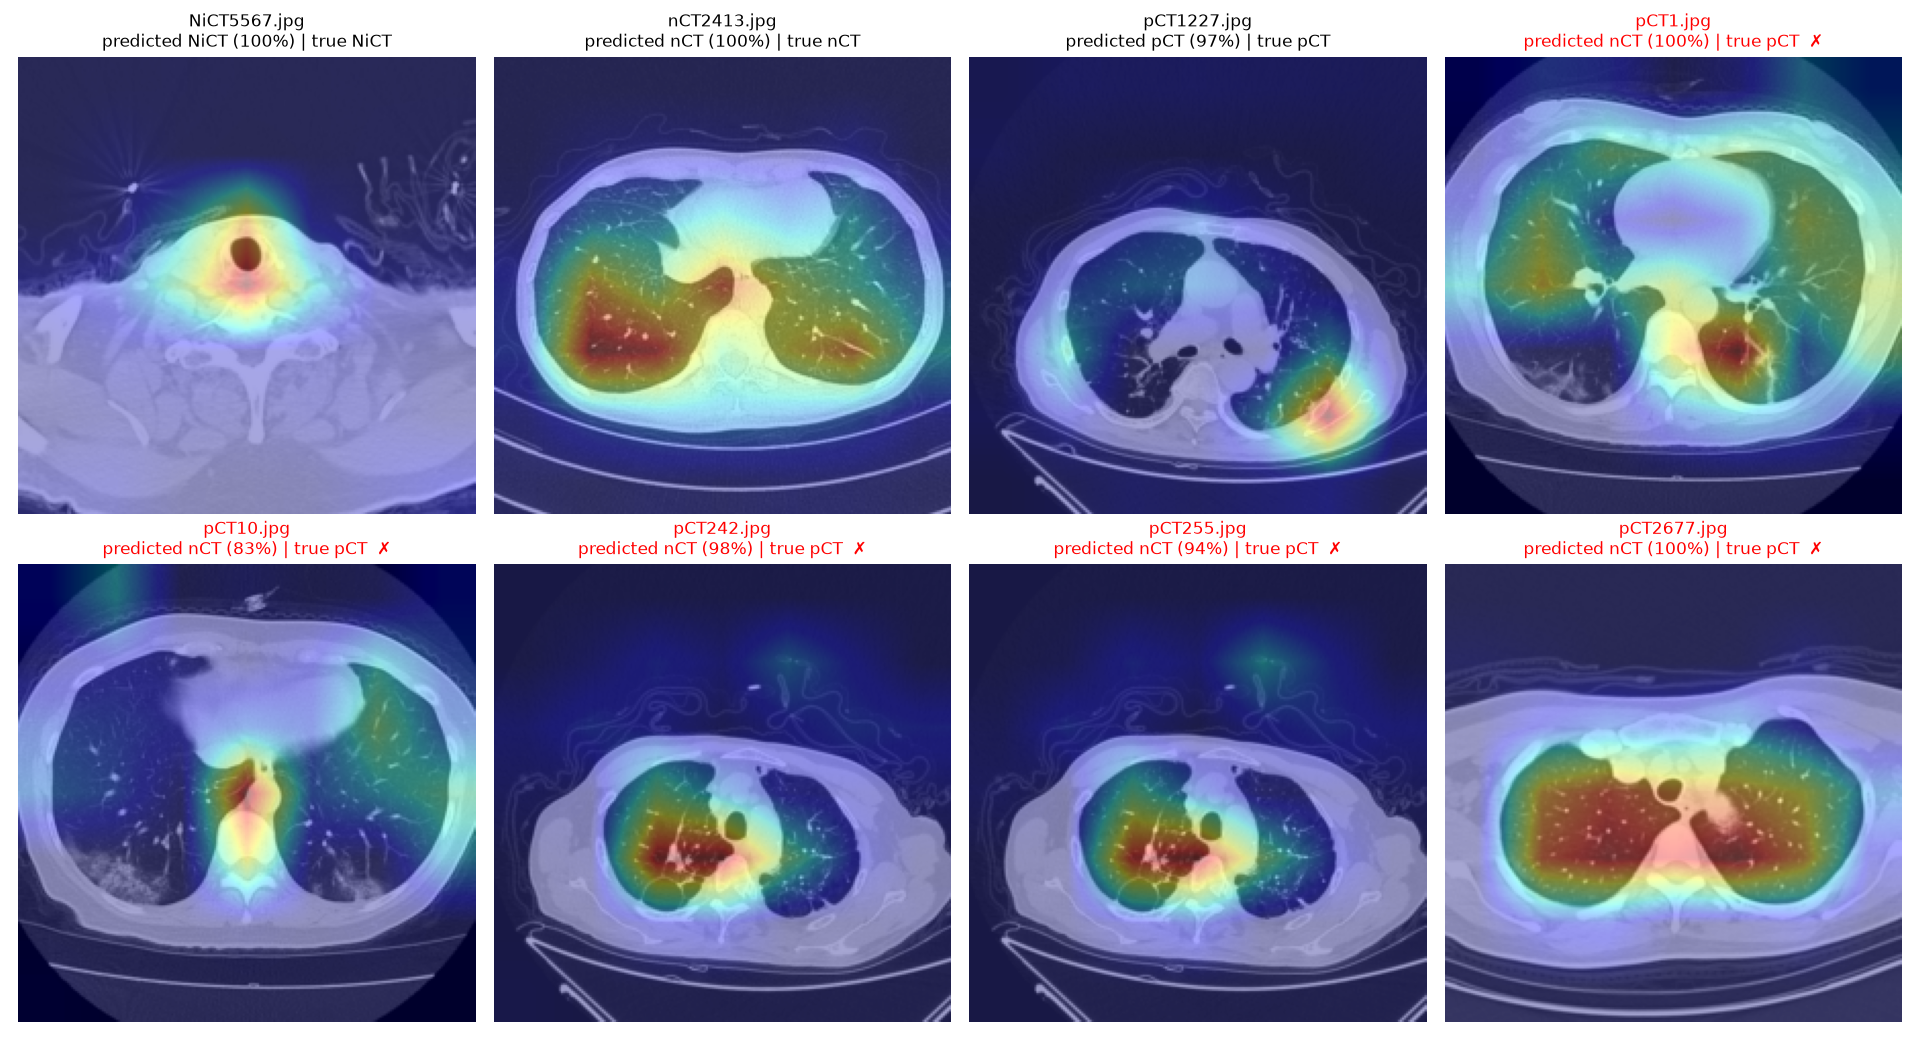
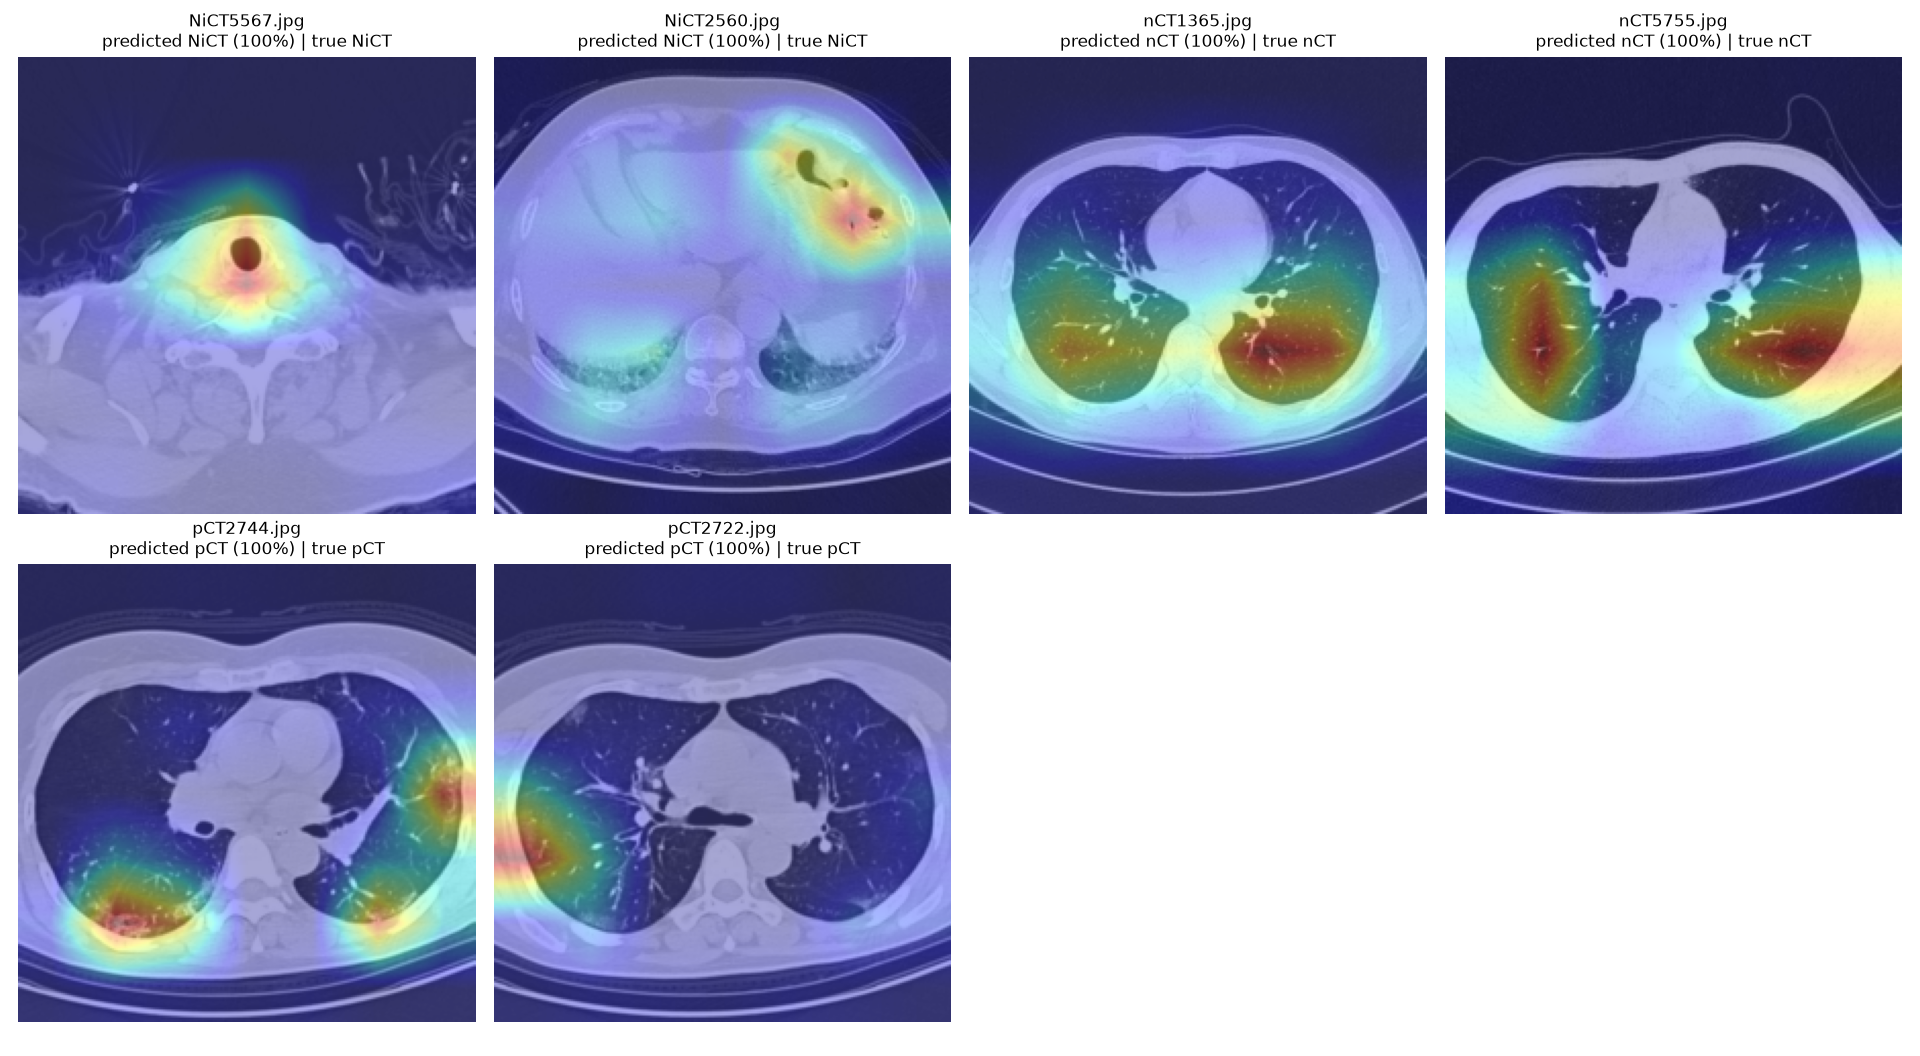
Add web demo, scan-level evaluation and Grad-CAM

diff --git a/deploy_space.py b/deploy_space.py
@@ -1,0 +1,109 @@
+"""Publish the web demo (app.py) on Hugging Face Spaces.
+
+Usage:
+    hf auth login                 # once: connects this computer to your Hugging Face account
+    python deploy_space.py        # creates or updates https://huggingface.co/spaces/<your-name>/covid-ct-classifier
+    python deploy_space.py --dry-run space_preview   # only builds the Space folder locally, to inspect it
+"""
+import argparse
+import shutil
+import tempfile
+from importlib.metadata import version
+from pathlib import Path
+
+from covid_ct import config
+
+SPACE_NAME = "covid-ct-classifier"
+CODE_FILES = [
+    "app.py",
+    "covid_ct/__init__.py", "covid_ct/config.py", "covid_ct/splits.py",
+    "covid_ct/data.py", "covid_ct/model.py", "covid_ct/gradcam.py",
+]
+
+# Gradio itself is installed by Hugging Face (sdk_version below); the CPU build of PyTorch is much smaller
+REQUIREMENTS = """--extra-index-url https://download.pytorch.org/whl/cpu
+torch
+torchvision
+numpy
+matplotlib
+pillow
+"""
+
+CARD = """---
+title: COVID-19 CT Scan Classifier
+emoji: 🫁
+colorFrom: blue
+colorTo: indigo
+sdk: gradio
+sdk_version: {gradio_version}
+app_file: app.py
+pinned: false
+short_description: Classifies chest CT slices with Grad-CAM heatmaps
+---
+
+# COVID-19 CT Scan Classifier
+
+Upload an axial chest CT slice to classify it as normal, COVID-19 positive or non-informative.
+A Grad-CAM heatmap shows which regions of the image drove the prediction.
+
+The model is a MobileNetV3-Large fine-tuned on 19,685 CT slices. It reaches 96.9% accuracy on
+29 CT scans held out from training. Code, training and evaluation: {github}
+
+The example images come from the [CT Scans for COVID-19 Classification](https://www.kaggle.com/datasets/azaemon/preprocessed-ct-scans-for-covid19)
+dataset (CC BY 4.0), built from the iCTCF data of Ning et al. (2020).
+
+This is a learning project, not a medical device. Do not use it to make decisions about anyone's health.
+"""
+
+
+def build(folder, weights):
+    """Copy everything the Space needs into a folder."""
+    folder = Path(folder)
+    for name in CODE_FILES:
+        (folder / name).parent.mkdir(parents=True, exist_ok=True)
+        shutil.copy(config.ROOT / name, folder / name)
+
+    target = folder / config.model_path("group").relative_to(config.ROOT)
+    target.parent.mkdir(parents=True, exist_ok=True)
+    shutil.copy(weights, target)
+
+    (folder / "examples").mkdir(exist_ok=True)
+    for image in sorted((config.ROOT / "examples").glob("*.jpg")):
+        shutil.copy(image, folder / "examples" / image.name)
+
+    (folder / "requirements.txt").write_text(REQUIREMENTS)
+    (folder / "README.md").write_text(CARD.format(gradio_version=version("gradio"), github=config.GITHUB_URL))
+
+
+def main():
+    parser = argparse.ArgumentParser(description="Publish the demo on Hugging Face Spaces.")
+    parser.add_argument("--repo", default=None, help="Space id, e.g. your-name/covid-ct-classifier")
+    parser.add_argument("--weights", default=str(config.model_path("group")), help="trained model to publish")
+    parser.add_argument("--dry-run", metavar="FOLDER", default=None, help="build the Space folder here, do not upload")
+    args = parser.parse_args()
+
+    if not Path(args.weights).exists():
+        raise SystemExit(f"{config.short(args.weights)} not found: train the model first with `python train.py`")
+
+    if args.dry_run:
+        build(args.dry_run, args.weights)
+        for p in sorted(Path(args.dry_run).rglob("*")):
+            if p.is_file():
+                print(p.relative_to(args.dry_run))
+        return
+
+    from huggingface_hub import HfApi
+
+    api = HfApi()
+    repo_id = args.repo or f"{api.whoami()['name']}/{SPACE_NAME}"
+    with tempfile.TemporaryDirectory() as tmp:
+        build(tmp, args.weights)
+        api.create_repo(repo_id, repo_type="space", space_sdk="gradio", exist_ok=True)
+        api.upload_folder(repo_id=repo_id, folder_path=tmp, repo_type="space",
+                          commit_message="Update the demo")
+    print(f"Done: https://huggingface.co/spaces/{repo_id}")
+    print("The Space takes a few minutes to build the first time.")
+
+
+if __name__ == "__main__":
+    main()

diff --git a/app.py b/app.py
@@ -1,0 +1,84 @@
+"""Web demo: upload a chest CT slice, get the predicted class and a Grad-CAM heatmap.
+
+Run it on your computer:
+    python app.py          then open http://127.0.0.1:7860
+Publish it on Hugging Face Spaces:
+    python deploy_space.py
+"""
+import gradio as gr
+import numpy as np
+import torch
+from matplotlib import colormaps
+from PIL import Image
+
+from covid_ct import config
+from covid_ct.data import eval_transform
+from covid_ct.gradcam import GradCAM, to_display
+from covid_ct.model import load_model
+
+LABELS = {
+    "NiCT": "Non-informative (lungs not visible enough)",
+    "nCT": "Normal",
+    "pCT": "COVID-19 positive",
+}
+
+
+def find_weights():
+    """The model trained on the group split, or the one trained on the slice split."""
+    for mode in config.SPLIT_MODES:
+        path = config.model_path(mode)
+        if path.exists():
+            return path
+    raise FileNotFoundError("No trained model in outputs/: run `python train.py` first")
+
+
+device = torch.device("cpu")            # one image at a time is fast enough on the CPU
+model = load_model(find_weights(), device)
+cam = GradCAM(model)
+
+
+def overlay(x, heatmap, alpha=0.4):
+    """Blend the heatmap (blue = ignored, red = important) over the preprocessed image."""
+    image = to_display(x)                                    # H x W x 3, values between 0 and 1
+    colours = colormaps["jet"](heatmap)[..., :3]
+    blended = (1 - alpha) * image + alpha * colours
+    return Image.fromarray((blended * 255).astype(np.uint8))
+
+
+def classify(image):
+    """Return the probability of each class and the Grad-CAM image."""
+    if image is None:
+        return None, None
+    x = eval_transform(image.convert("RGB")).unsqueeze(0).to(device)
+    heatmap, probs, _ = cam(x)
+    scores = {LABELS[c]: float(p) for c, p in zip(config.CLASSES, probs)}
+    return scores, overlay(x, heatmap)
+
+
+examples = sorted(str(p) for p in (config.ROOT / "examples").glob("*.jpg"))
+
+with gr.Blocks(title="COVID-19 CT Scan Classifier") as demo:
+    gr.Markdown(
+        "# COVID-19 CT Scan Classifier\n"
+        "Upload an axial chest CT slice. A MobileNetV3-Large fine-tuned on 19,685 CT slices classifies it as "
+        "**normal**, **COVID-19 positive** or **non-informative**, and a Grad-CAM heatmap shows which regions "
+        f"drove the prediction (red = most important). [Code on GitHub]({config.GITHUB_URL})"
+    )
+    with gr.Row():
+        with gr.Column():
+            image_in = gr.Image(type="pil", label="Chest CT slice")
+            button = gr.Button("Classify", variant="primary")
+        with gr.Column():
+            label_out = gr.Label(num_top_classes=3, label="Prediction")
+            heatmap_out = gr.Image(label="Grad-CAM: where the model looks")
+    if examples:
+        gr.Examples(examples=examples, inputs=image_in, outputs=[label_out, heatmap_out],
+                    fn=classify, run_on_click=True, cache_examples=False)
+    button.click(classify, inputs=image_in, outputs=[label_out, heatmap_out])
+    gr.Markdown(
+        "*This is a learning project, not a medical device. "
+        "Do not use it to make decisions about anyone's health.*"
+    )
+
+if __name__ == "__main__":
+    demo.launch()

diff --git a/covid_ct/config.py b/covid_ct/config.py
@@ -6,6 +6,7 @@ ROOT = Path(__file__).resolve().parents[1]
 DATA_ROOT = ROOT / "data"            # contains the NiCT/, nCT/ and pCT/ folders
 OUTPUT_DIR = ROOT / "outputs"        # trained models and training histories
 ASSETS_DIR = ROOT / "assets"         # figures used in the README
+GITHUB_URL = "https://github.com/aymanbelbachir/covid-ct-classifier"
 
 # Class names in the order ImageFolder assigns them (alphabetical, uppercase first)
 CLASSES = ["NiCT", "nCT", "pCT"]

diff --git a/train.py b/train.py
@@ -1,7 +1,7 @@
 """Train MobileNetV3-Large on the CT slices and save the best model.
 
 Usage:
-    python train.py                       # group split (honest), 25 epochs
+    python train.py                       # group split (default), 25 epochs
     python train.py --split-mode slice    # original notebook split
     python train.py --epochs 5            # shorter run
 """

diff --git a/README.md b/README.md
@@ -1,8 +1,13 @@
 # COVID-19 CT Scan Classifier
 
-A PyTorch image classifier that sorts chest CT slices into three classes: normal, COVID-19 positive and non-informative. It uses transfer learning on MobileNetV3-Large. Evaluated on scans it has never seen, it reaches **96.9% accuracy** and detects **90% of COVID-positive slices**.
+A deep learning project that classifies chest CT slices into three classes: normal, COVID-19 positive and non-informative. It fine-tunes a pretrained MobileNetV3-Large in PyTorch and reaches **96.9% accuracy on 29 CT scans held out from training**, with a **99.5% specificity** for COVID-19 and all 8 COVID-positive test scans detected.
 
-The project also shows that the usual way of splitting this dataset, slice by slice, leaks near-identical images from the training set into the test set and inflates the accuracy to 99.6%, and how to fix it.
+- **Transfer learning:** MobileNetV3-Large pretrained on ImageNet, fine-tuned on 19,685 CT slices
+- **Scan-level data split:** near-identical slices of the same scan are kept together, so the test set measures performance on unseen scans
+- **Complete evaluation:** precision, recall, F1, sensitivity, specificity, confidence intervals and scan-level results
+- **Explainability:** Grad-CAM heatmaps show which regions of the image drive each prediction
+- **Command-line tools:** training, evaluation, prediction and Grad-CAM scripts, plus a step-by-step notebook
+- **Apple Silicon:** trains on the Mac GPU through PyTorch's MPS backend
 
 > This is a learning project. It is not a medical device and must not be used to make decisions about anyone's health.
 
@@ -18,30 +23,23 @@ Each image is a single slice from a chest CT scan. The model assigns it to one o
 
 ## Results
 
-### An honest split: whole scans, not slices
+Test set: 2,567 slices from 29 scans that the model never saw during training.
 
-The dataset has no patient IDs, and neighbouring slices of a scan are nearly identical. A random split slice by slice therefore puts near-copies of training slices in the test set. `find_groups.py` links every pair of slices whose pixel correlation is above 0.95 and turns each chain of linked slices into a group. This gives 189 groups, a proxy for scans, with a median of 81 slices each. Whole groups are then assigned to the training (137 groups), validation (23) or test set (29).
+| Metric | Value |
+|---|---:|
+| Accuracy | 96.88% |
+| Macro F1 | 0.965 |
+| COVID-19 sensitivity | 89.96% |
+| COVID-19 specificity | 99.50% |
+| COVID-positive scans detected | 8 of 8 |
 
-| | Per-slice split | Per-scan split |
-|---|---:|---:|
-| Test slices with a near-copy in the training set | 97.1% | 0.0% |
-| Nearest-neighbour baseline (no learning) | 99.66% | 84.07% |
-| **Model test accuracy** | 99.59% | **96.88%** |
-| **COVID-19 sensitivity** | 99.00% | **89.96%** |
-| **COVID-19 specificity** | 99.96% | **99.50%** |
-| Errors on the test set | 12 of 2,956 | 80 of 2,567 |
+| Class | Precision | Recall | F1 |
+|---|---:|---:|---:|
+| NiCT | 96.97% | 99.61% | 0.983 |
+| nCT | 96.38% | 98.24% | 0.973 |
+| pCT | 98.01% | 89.96% | 0.938 |
 
-The nearest-neighbour baseline copies the label of the most similar training slice. With the per-slice split it already scores 99.66%, so the model's 99.59% said very little. With the per-scan split the model beats that baseline by 13 points, so it did learn to read the images, but it misses 10% of COVID-positive slices instead of 1%. `check_leakage.py` reproduces the first two rows.
-
-### Detailed results (per-scan split)
-
-| Class | Precision | Recall | F1 | Recall 95% CI |
-|---|---:|---:|---:|---:|
-| NiCT | 96.97% | 99.61% | 0.983 | 98.9–99.9% |
-| nCT | 96.38% | 98.24% | 0.973 | 97.3–98.8% |
-| pCT | 98.01% | 89.96% | 0.938 | 87.2–92.2% |
-
-Confusion matrix on the test set (rows = true class, columns = predicted class):
+Confusion matrix (rows = true class, columns = predicted class):
 
 | | NiCT | nCT | pCT |
 |---|---:|---:|---:|
@@ -49,39 +47,46 @@ Confusion matrix on the test set (rows = true class, columns = predicted class):
 | **nCT** | 13 | 1,225 | 9 |
 | **pCT** | 11 | 44 | 493 |
 
-The most frequent error is also the most serious one: 44 COVID-positive slices predicted as normal. The errors are concentrated in a few scans: the 80 errors come from 10 of the 29 test scans, and three scans account for 53 of them. At the scan level, all 8 test scans that contain COVID-positive slices have at least one slice flagged as positive, and 3 of the 21 other scans have at least one false alarm. With only 8 positive scans in the test set, the per-slice confidence intervals understate the real uncertainty.
+![Training curves](assets/training_curves_group.png)
 
-![Training curves on the per-scan split](assets/training_curves_group.png)
-
-Validation accuracy levels off around 96% after two epochs while the validation loss rises: the model starts to memorise the training scans. The per-slice split hid this completely, because its validation set was made of near-copies of training slices. The model with the best validation accuracy (epoch 10) is kept.
+Validation accuracy reaches about 96% within the first epochs. The model from the epoch with the best validation accuracy is kept.
 
 ### Where the model looks
 
-[Grad-CAM](https://arxiv.org/abs/1610.02391) highlights the regions of an image that drove the prediction (red = most important).
+[Grad-CAM](https://arxiv.org/abs/1610.02391) highlights the regions of the image that drove the prediction (red = most important). On COVID-positive slices the model focuses on the opacities in the lungs, on normal slices it scans both lungs, and on non-informative slices it relies on the anatomy around them, such as the neck or the abdomen.
 
 ![Grad-CAM heatmaps on test slices](assets/gradcam.png)
 
-The first three slices are classified correctly. On the COVID-positive slice the model focuses on the lesion at the back of the left lung, and on the non-informative slice on the neck. The other five are COVID-positive slices predicted as normal. On `pCT1` and `pCT10` the opacities at the back of the lungs are clearly visible, but the model's attention is elsewhere. Both slices come from a scan with a circular field of view, which suggests the model is sensitive to how the images were acquired.
-
 ## How it works
 
-- **Data:** the slices are grouped into pseudo-scans (see above) and whole groups are split into about 70% training, 15% validation and 15% test, stratified by class. Training images are augmented with random resized crops and horizontal flips. All images are normalized with the ImageNet statistics.
-- **Model:** MobileNetV3-Large pretrained on ImageNet. Its original 1,000-class head is replaced by a new one: 960 → 1,280 (ReLU, 20% dropout) → 3. The whole network is fine-tuned (4.2M trainable parameters).
-- **Training:** cross-entropy loss, AdamW (learning rate 1e-4, weight decay 1e-4), batch size 16, 25 epochs. The model with the best validation accuracy is kept.
-- **Hardware:** Apple Silicon MacBook, PyTorch MPS backend. Training took about 85 minutes.
+1. **Data split.** Neighbouring slices of a CT scan are almost identical, so splitting the dataset slice by slice would put near-copies of training slices in the test set. `find_groups.py` links slices whose pixel correlation is above 0.95 and turns each chain of linked slices into a group, a proxy for one scan. The 189 groups are split into training (137), validation (23) and test (29), stratified by class, and `check_leakage.py` confirms that no test slice has a near-copy in the training set.
+2. **Preprocessing.** Images are resized to 224 x 224 and normalized with the ImageNet statistics. Training images are augmented with random resized crops and horizontal flips.
+3. **Model.** MobileNetV3-Large pretrained on ImageNet. Its 1,000-class head is replaced by a new one: 960 → 1,280 (ReLU, 20% dropout) → 3. The whole network is fine-tuned (4.2M trainable parameters).
+4. **Training.** Cross-entropy loss, AdamW (learning rate 1e-4, weight decay 1e-4), batch size 16, 25 epochs, about 85 minutes on an Apple Silicon MacBook.
+5. **Evaluation.** Per-class precision, recall and F1, COVID-19 sensitivity and specificity with 95% confidence intervals, and a summary per scan.
 
 ## Project structure
 
 ```
-covid_ct/           shared code: settings, splits, data, model, training loops, metrics, Grad-CAM
-find_groups.py      groups near-identical slices and writes the per-scan split
-check_leakage.py    measures how much the test set leaks from the training set
-train.py            trains the model and saves it with its history and curves
-evaluate.py         per-class metrics, sensitivity, specificity and a per-scan summary
-gradcam.py          Grad-CAM heatmaps of test images or of your own images
-predict.py          classifies one or more images
-splits/             the per-scan split (group_split.csv)
-classifier.ipynb    the original pipeline step by step, with the per-slice split
+covid_ct/              shared package
+├── config.py          paths, classes and hyperparameters
+├── splits.py          train / validation / test split
+├── similarity.py      thumbnails and similarity search to group slices
+├── data.py            transforms and data loaders
+├── model.py           MobileNetV3-Large with the new classification head
+├── engine.py          training and evaluation loops
+├── metrics.py         precision, recall, F1, sensitivity, specificity
+└── gradcam.py         Grad-CAM heatmaps
+find_groups.py         groups slices into scans and writes splits/group_split.csv
+check_leakage.py       checks that the test set has no near-copy in the training set
+train.py               trains the model and saves it with its history and curves
+evaluate.py            evaluates the trained model on the test set
+gradcam.py             draws Grad-CAM heatmaps for test images or your own images
+predict.py             classifies one or more images
+app.py                 web demo (Gradio): upload a slice, get the prediction and its heatmap
+deploy_space.py        publishes the web demo on Hugging Face Spaces
+examples/              example slices from the test set, used by the demo
+classifier.ipynb       the whole pipeline step by step, with explanations
 ```
 
 ## Getting started
@@ -106,20 +111,21 @@ data/
 Then run the scripts from the project folder:
 
 ```bash
-python check_leakage.py                   # leakage of the per-slice and per-scan splits
-python train.py                           # train on the per-scan split (about 1.5 hours on Apple Silicon)
-python evaluate.py                        # evaluate the model on the test scans
-python gradcam.py --examples 1 --errors   # heatmaps, saved to assets/gradcam.png
+python train.py                           # train the model (about 1.5 hours on Apple Silicon)
+python evaluate.py                        # evaluate it on the test scans
+python gradcam.py --examples 2            # Grad-CAM heatmaps, saved to assets/gradcam.png
 python predict.py data/pCT/pCT1227.jpg    # classify one or more images
+python app.py                             # web demo at http://127.0.0.1:7860
 ```
 
-Add `--split-mode slice` to `train.py` or `evaluate.py` to reproduce the original per-slice results. The per-scan split is included in `splits/group_split.csv`; run `find_groups.py` only to change the grouping threshold.
+The split is included in `splits/group_split.csv`, so `find_groups.py` only needs to be run to change the grouping threshold.
 
 ## Limitations
 
-- **Groups are only a proxy for patients.** Without patient IDs, distant slices of the same patient that are not linked could still end up on both sides of the split. The test set contains only 29 scans, 8 of them with COVID-positive slices, so the results are uncertain.
-- **One data source.** All scans come from two hospitals in Wuhan. The model has not been tested on other scanners or populations, and the Grad-CAM errors suggest it is sensitive to how images are acquired.
-- **Overconfident probabilities.** The model often gives 99–100% even when it is wrong; its probabilities are not calibrated.
+- **No patient IDs.** The groups of similar slices are a proxy for patients: distant slices of the same patient could still end up in both the training and the test set. The test set contains 29 scans, 8 of them with COVID-positive slices, which limits the precision of the results.
+- **Missed COVID-positive slices.** About 10% of the COVID-positive slices are classified as normal or non-informative, mostly in a few scans. Scans acquired differently from the majority, for example with a circular field of view, are harder for the model.
+- **One data source.** All scans come from two hospitals in Wuhan. The model has not been tested on other scanners or populations.
+- **Overconfident probabilities.** The model often gives probabilities close to 100%, including on its errors; they are not calibrated.
 - **Single slices only.** A real diagnosis looks at the whole scan together with symptoms and lab results.
 
 ## Acknowledgements
